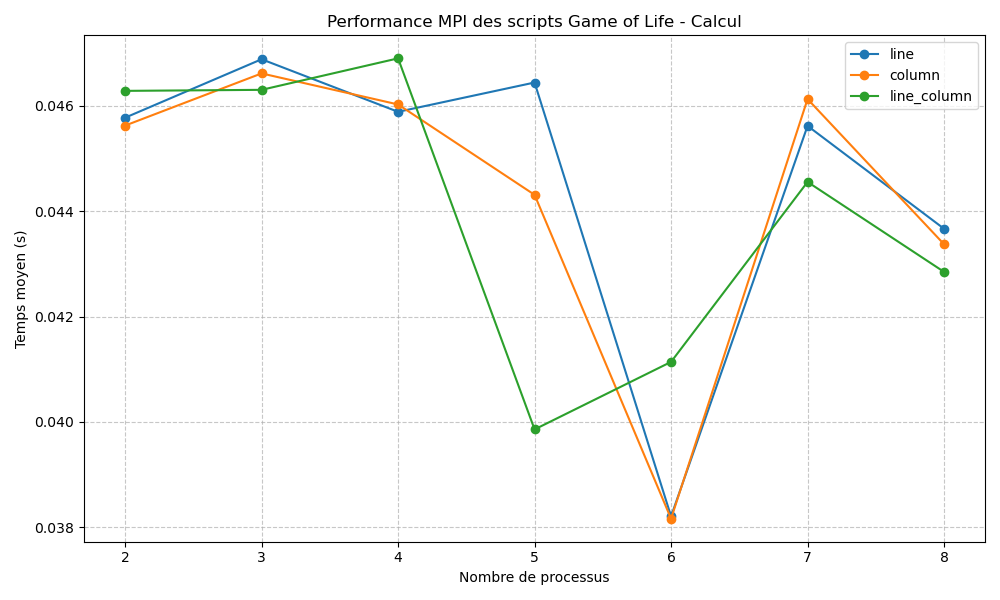
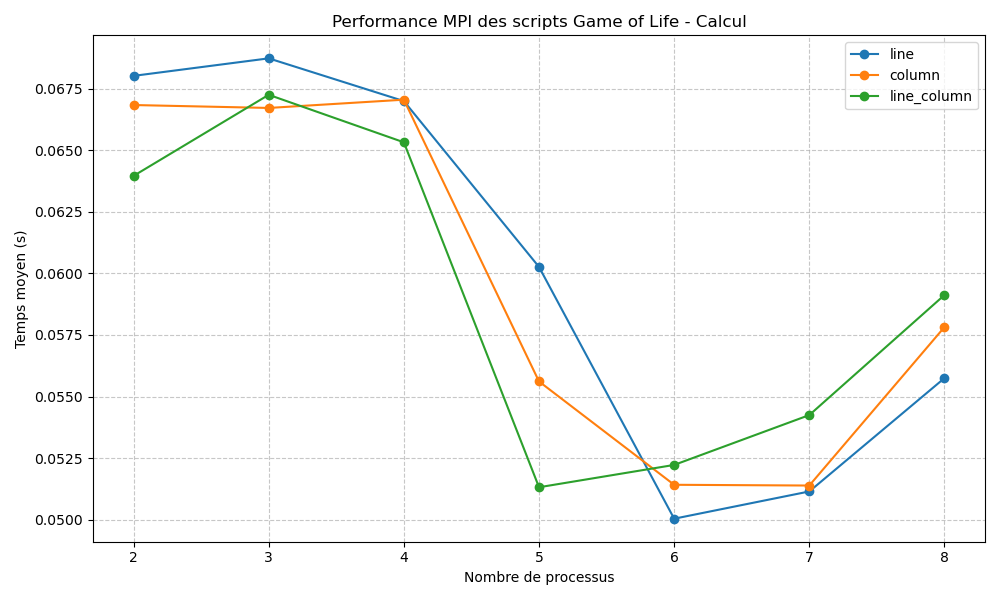
bon

diff --git a/Line/Line.py b/Line/Line.py
@@ -159,8 +159,8 @@ class Grille:
             return
 
         # Calcul des indices des voisins circulaires (bords toroïdaux globalement)
-        top = (rank - 1) % size      # voisin du dessus
-        bottom = (rank + 1) % size   # voisin du dessous
+        haut = (rank - 1) % size      # voisin du dessus
+        bas = (rank + 1) % size   # voisin du dessous
 
         if size == 2:
             # On utilise Sendrecv pour éviter les deadlocks
@@ -174,21 +174,31 @@ class Grille:
             comm.Sendrecv(sendbuf=send_bottom, dest=bottom, recvbuf=recv_bottom, source=bottom)
             self.cells[-1, :] = recv_bottom
         else:
-            # Communication non bloquante pour plus de deux processus
-            send_top = comm.Isend(self.cells[1, :], dest=top)
-            recv_bottom = np.empty(self.dimensions[1], dtype=np.uint8)
-            req_bottom = comm.Irecv(recv_bottom, source=bottom)
+            
+            send_haut = self.cells[1, :].copy()
+            recv_bas = np.empty(self.dimensions[1], dtype=np.uint8)
 
-            send_bottom = comm.Isend(self.cells[-2, :], dest=bottom)
-            recv_top = np.empty(self.dimensions[1], dtype=np.uint8)
-            req_top = comm.Irecv(recv_top, source=top)
+            comm.Sendrecv(
+                sendbuf=send_haut,
+                dest=haut,
+                recvbuf=recv_bas,
+                source=bas
+            )
 
-            # On attend que toutes les opérations MPI soient terminées
-            MPI.Request.Waitall([send_top, req_bottom, send_bottom, req_top])
+          
+            send_bas = self.cells[-2,:].copy()
+            recv_haut = np.empty(self.dimensions[1], dtype=np.uint8)
 
-            # Mise à jour des lignes fantômes locales
-            self.cells[0, :] = recv_top
-            self.cells[-1, :] = recv_bottom
+            comm.Sendrecv(
+                sendbuf=send_bas,
+                dest=bas,
+                recvbuf=recv_haut,
+                source=haut
+            )
+
+            # Mise à jour ghost cells
+            self.cells[0,:] = recv_haut
+            self.cells[-1,:] = recv_bas
 
 # ========================== Application graphique ==========================
 
